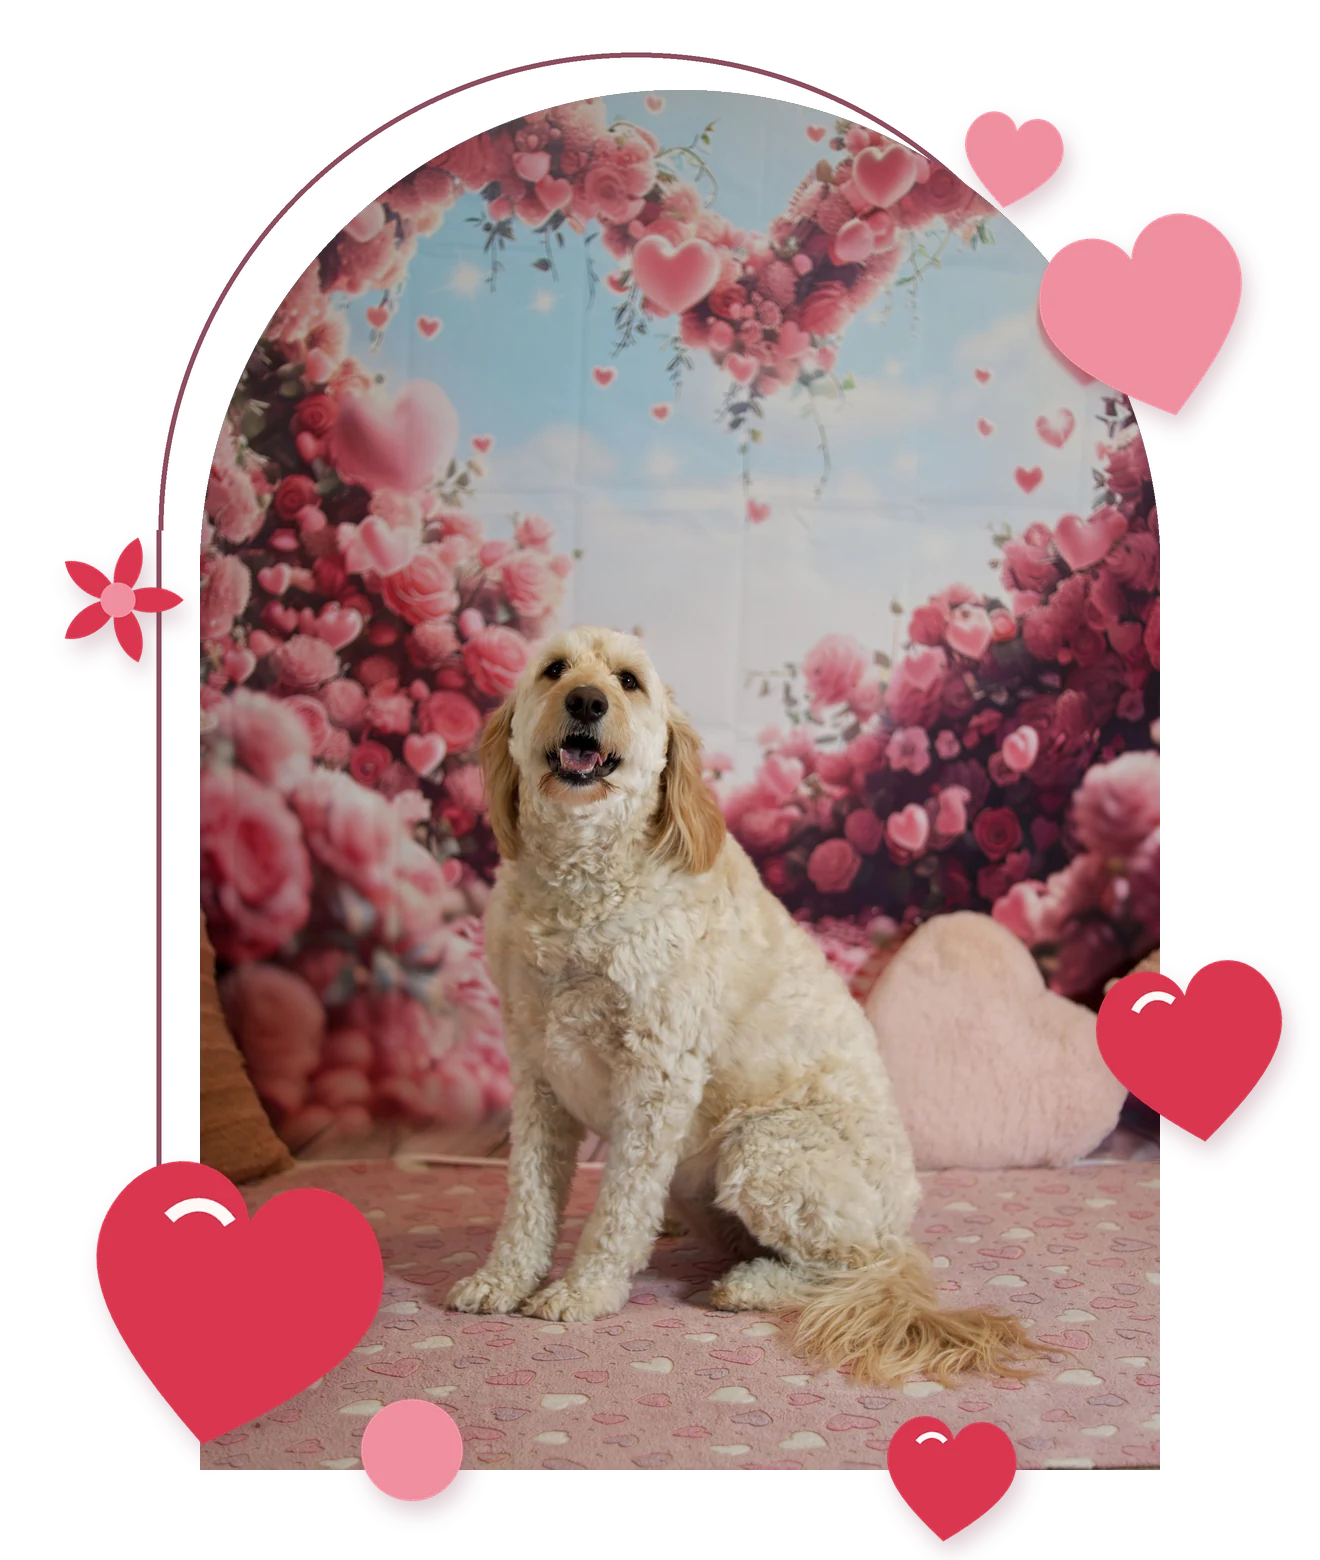
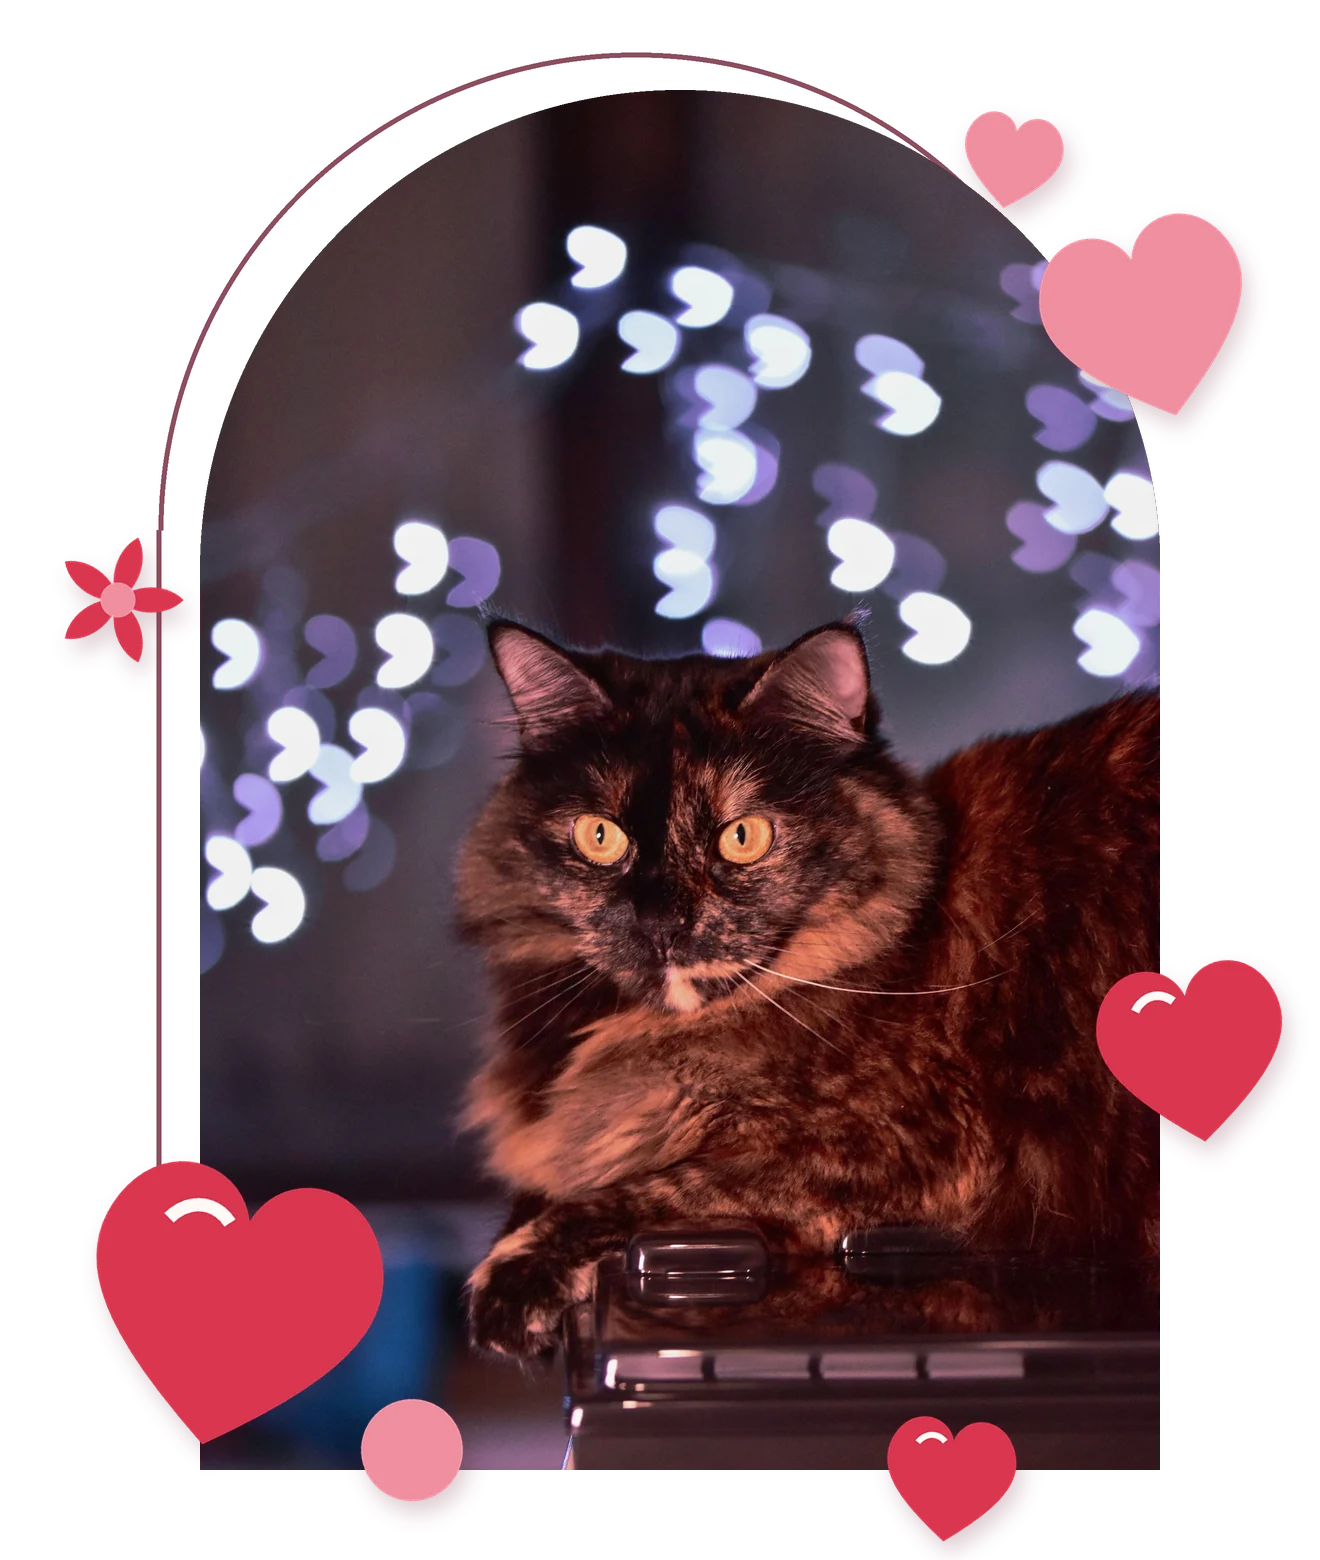
Retarget seasonal photography to cats and small dogs
Claude-Session: https://claude.ai/code/session_01G1JiC9PnNKgRgmbhWn8Trp

diff --git a/scripts/skin_palettes.py b/scripts/skin_palettes.py
@@ -8,35 +8,35 @@ SKINS = {
  'base':        dict(hero='#F7D9CF', band='#DCE5CF', dark='#2B3524', text='#2B3524', btn='#2B3524', btn_label='#FFFDF8', A='#F2AE3D', A2='#C4673F', G='#7E9A68', L='#FFFDF8',
                      props=['sprig', 'heart', 'dot', 'sprig', 'heart_small', 'ring'], photo='base/base-1', feature='base/base-2'),
  'fall-2026':   dict(hero='#F7CBA6', band='#F3E3BC', dark='#4A2A1C', text='#3A2418', btn='#4A2A1C', btn_label='#FFF8EF', A='#E8833A', A2='#C9502E', G='#8A8B3A', L='#FFF8EF',
-                     props=['maple', 'leaf', 'acorn', 'maple', 'leaf', 'acorn'], photo='fall/fall-1', feature='fall/fall-2'),
+                     props=['maple', 'leaf', 'acorn', 'maple', 'leaf', 'acorn'], photo='fall/fall-1', feature='fall/fall-4'),
  'halloween-2026': dict(hero='#F7B46A', band='#E6DCF0', dark='#2A1F33', text='#2A1F33', btn='#2A1F33', btn_label='#FFF8EF', A='#F28C28', A2='#E06A1B', G='#5E7A3A', L='#FFF8EF',
                      props=['pumpkin', 'bat', 'moon', 'bat', 'star_small', 'pumpkin'], photo='halloween/halloween-1', feature='halloween/halloween-3'),
  'national-cat-day-2026': dict(hero='#F1D4DF', band='#F6E7C8', dark='#4B2238', text='#3A1C2C', btn='#4B2238', btn_label='#FFF8F4', A='#E98AA8', A2='#F2AE3D', G='#7E9A68', L='#FFF8F4',
                      props=['yarn', 'paw', 'heart_small', 'paw', 'dot', 'yarn'], photo='catday/catday-3', feature='catday/catday-2'),
  'thanksgiving-2026': dict(hero='#EBC9A0', band='#DDE3C8', dark='#3D2B1F', text='#3D2B1F', btn='#6B3A22', btn_label='#FFF8EF', A='#D98A2B', A2='#B5512C', G='#6F7F3E', L='#FFF8EF',
-                     props=['pumpkin', 'maple', 'acorn', 'leaf', 'acorn', 'maple'], photo='thanksgiving/thanksgiving-1', feature='thanksgiving/thanksgiving-4'),
+                     props=['pumpkin', 'maple', 'acorn', 'leaf', 'acorn', 'maple'], photo='thanksgiving/thanksgiving-4', feature='thanksgiving/thanksgiving-3'),
  'bfcm-2026':   dict(hero='#F4C7B1', band='#F9E7C9', dark='#1F3A34', text='#2A2420', btn='#1F3A34', btn_label='#FFF8EF', A='#F2AE3D', A2='#1F3A34', G='#5E8A6E', L='#FFF8EF',
                      props=['gift', 'star', 'sparkle', 'gift', 'star_small', 'sparkle'], photo='bfcm/bfcm-1', feature='bfcm/bfcm-3'),
  'holidays-2026': dict(hero='#F4D3CB', band='#D6E6DA', dark='#1E4636', text='#1E2E26', btn='#1E4636', btn_label='#FFFBF5', A='#E9B44C', A2='#C8323A', G='#2F6B4F', L='#FFFBF5',
-                     props=['bauble', 'fir', 'star', 'fir', 'bauble', 'sparkle'], photo='holidays/holidays-1', feature='holidays/holidays-2'),
+                     props=['bauble', 'fir', 'star', 'fir', 'bauble', 'sparkle'], photo='holidays/holidays-2', feature='holidays/holidays-4'),
  'winter-2026': dict(hero='#D7E6F2', band='#EEF0F4', dark='#1F3247', text='#1F3247', btn='#1F3247', btn_label='#FFFFFF', A='#8DB4D6', A2='#FFFFFF', G='#4E7A8A', L='#FFFFFF',
                      props=['snowflake', 'dot', 'snowflake', 'sparkle', 'snowflake', 'dot'], photo='winter/winter-1', feature='winter/winter-2'),
  'new-year-2027': dict(hero='#F1E3C2', band='#E3E6F2', dark='#1E2547', text='#1E2547', btn='#1E2547', btn_label='#FFFDF8', A='#D4A637', A2='#E5566F', G='#1E2547', L='#FFFDF8',
-                     props=['burst', 'confetti', 'sparkle', 'confetti', 'star', 'burst'], photo='newyear/newyear-1', feature='newyear/newyear-2'),
+                     props=['burst', 'confetti', 'sparkle', 'confetti', 'star', 'burst'], photo='newyear/newyear-5', feature='newyear/newyear-2'),
  'valentines-2027': dict(hero='#F8C9D0', band='#FBE6E4', dark='#6B1F33', text='#4A1A27', btn='#6B1F33', btn_label='#FFF8F6', A='#F08FA0', A2='#D9364F', G='#7E9A68', L='#FFF8F6',
-                     props=['heart', 'heart_small', 'blossom', 'heart', 'dot', 'heart_small'], photo='valentines/valentines-1', feature='valentines/valentines-2'),
+                     props=['heart', 'heart_small', 'blossom', 'heart', 'dot', 'heart_small'], photo='valentines/valentines-4', feature='valentines/valentines-1'),
  'st-patricks-2027': dict(hero='#F6F0D2', band='#D3EBC8', dark='#1F4A2C', text='#1F3A24', btn='#1F4A2C', btn_label='#FFFDF6', A='#E9B44C', A2='#F2AE3D', G='#3E9150', L='#FFFDF6',
                      props=['shamrock', 'coin', 'shamrock', 'sparkle', 'coin', 'shamrock'], photo='stpatricks/stpatricks-1', feature='stpatricks/stpatricks-3'),
  'tailvani-anniversary-2027': dict(hero='#F9D4E2', band='#FCEBC4', dark='#2B3524', text='#2B3524', btn='#2B3524', btn_label='#FFFDF8', A='#F2AE3D', A2='#E5668A', G='#7E9A68', L='#FFFDF8',
                      props=['balloon', 'party_hat', 'confetti', 'balloon', 'sparkle', 'confetti'], photo='anniversary/anniversary-1', feature='anniversary/anniversary-3'),
  'spring-2027': dict(hero='#F9D3DC', band='#E2EED6', dark='#2F4A2E', text='#2F3A2A', btn='#2F4A2E', btn_label='#FFFDF8', A='#F6C744', A2='#EF8FA8', G='#5E9150', L='#FFFDF8',
-                     props=['blossom', 'tulip', 'petal', 'blossom', 'sprig', 'petal'], photo='spring/spring-1', feature='spring/spring-2'),
+                     props=['blossom', 'tulip', 'petal', 'blossom', 'sprig', 'petal'], photo='spring/spring-3', feature='easterb/easter-2'),
  'easter-2027': dict(hero='#E3DDF4', band='#FBF0C9', dark='#3E3A63', text='#2F2B4A', btn='#3E3A63', btn_label='#FFFDF8', A='#A9D8C8', A2='#F2B5CB', G='#6EA383', L='#FFFDF8',
-                     props=['egg', 'tulip', 'blossom', 'egg', 'dot', 'petal'], photo='easter/easter-3', feature='easter/easter-1'),
+                     props=['egg', 'tulip', 'blossom', 'egg', 'dot', 'petal'], photo='easter/easter-3', feature='easterb/easter-5'),
  'fourth-of-july-2027': dict(hero='#DCE6F4', band='#F6E3DE', dark='#1C2B4D', text='#1C2B4D', btn='#1C2B4D', btn_label='#FFFFFF', A='#C8343B', A2='#2F4F8F', G='#1C2B4D', L='#FFFFFF',
-                     props=['star', 'burst', 'bunting', 'star_small', 'burst', 'star'], photo='july4/july4-1', feature='july4/july4-2'),
+                     props=['star', 'burst', 'bunting', 'star_small', 'burst', 'star'], photo='july4b/july4-1', feature='july4b/july4-3'),
  'summer-2027': dict(hero='#FFE0A3', band='#CFEAF0', dark='#0F4C5C', text='#183A42', btn='#0F4C5C', btn_label='#FFFDF8', A='#F07B4A', A2='#F6C744', G='#3E9A7A', L='#FFFDF8',
-                     props=['sun', 'lemon', 'dot', 'lemon', 'sparkle', 'sun'], photo='summer/summer-1', feature='summer/summer-2'),
+                     props=['sun', 'lemon', 'dot', 'lemon', 'sparkle', 'sun'], photo='summer/summer-3', feature='summer/summer-4'),
  'national-dog-day-2027': dict(hero='#FBD7A8', band='#DDE5CF', dark='#2B3524', text='#2B3524', btn='#2B3524', btn_label='#FFFDF8', A='#E07A3F', A2='#C4673F', G='#7E9A68', L='#FFFDF8',
-                     props=['bone', 'paw', 'heart_small', 'bone', 'dot', 'paw'], photo='dogday/dogday-1', feature='dogday/dogday-2'),
+                     props=['bone', 'paw', 'heart_small', 'bone', 'dot', 'paw'], photo='dogdayb/dogday-1', feature='dogdayb/dogday-3'),
 }

diff --git a/scripts/compose_hero.py b/scripts/compose_hero.py
@@ -15,9 +15,12 @@ SS = 2                                        # supersample for smooth edges
 SLOTS = [(232, 1305, 380, -12), (1148, 318, 270, 16), (118, 600, 160, -18), (1192, 1050, 245, 8),
          (412, 1450, 170, 10), (1012, 160, 130, -10), (950, 1478, 170, -6)]
 CENTER = {  # focal point (x, y) for the arch crop, 0..1
- 'base': (0.5, 0.45), 'bfcm-2026': (0.6, 0.6), 'spring-2027': (0.42, 0.45), 'holidays-2026': (0.5, 0.3),
- 'new-year-2027': (0.5, 0.55), 'thanksgiving-2026': (0.5, 0.55), 'fourth-of-july-2027': (0.45, 0.45),
+ 'base': (0.5, 0.45), 'bfcm-2026': (0.6, 0.6), 'spring-2027': (0.5, 0.35), 'holidays-2026': (0.5, 0.5),
+ 'new-year-2027': (0.62, 0.4), 'thanksgiving-2026': (0.5, 0.4), 'fourth-of-july-2027': (0.5, 0.65),
+ 'valentines-2027': (0.5, 0.55), 'summer-2027': (0.5, 0.45), 'national-dog-day-2027': (0.5, 0.4),
 }
+
+ZOOM = {'fourth-of-july-2027': 0.58}  # crop to this fraction around the focal point before fitting
 
 def hexrgb(h, a=255):
     h = h.lstrip('#'); return tuple(int(h[i:i+2], 16) for i in (0, 2, 4)) + (a,)
@@ -44,6 +47,11 @@ def compose(skin):
     canvas.alpha_composite(ol, (AX + OFF[0], AY + OFF[1]))
     # 2. photo in the arch
     photo = Image.open(f'/home/claude/craft/artwork/graded/{skin}-photo.jpg').convert('RGB')
+    if skin in ZOOM:
+        z = ZOOM[skin]; fx, fy = CENTER.get(skin, (0.5, 0.42)); W0, H0 = photo.size
+        w, h = int(W0 * z), int(H0 * z)
+        x0 = min(max(int(fx * W0 - w / 2), 0), W0 - w); y0 = min(max(int(fy * H0 - h / 2), 0), H0 - h)
+        photo = photo.crop((x0, y0, x0 + w, y0 + h))
     photo = ImageOps.fit(photo, (AW, AH), Image.LANCZOS, centering=CENTER.get(skin, (0.5, 0.42)))
     m = arch_mask(AW, AH)
     canvas.paste(photo, (AX, AY), m)

diff --git a/credits/easterb.md b/credits/easterb.md
@@ -1,0 +1,9 @@
+# easterb — photo credits
+
+filename | photographer | source page | license
+
+easter-1-yorkie-easter-eggs-grass.jpg | Adam B | https://unsplash.com/photos/brown-and-black-yorkshire-terrier-puppy-on-green-grass-field-during-daytime-DmKuKxehJZY | Unsplash License
+easter-2-ginger-kitten-spring-flowers.jpg | Nataliya Melnychuk | https://unsplash.com/photos/a-kitten-sitting-on-a-bed-next-to-a-vase-of-flowers-Czfwp9HJM0E | Unsplash License
+easter-3-sheltie-puppy-pink-tulips.jpg | Tatiana Rudneva | https://unsplash.com/photos/a-fluffy-puppy-sitting-among-vibrant-pink-tulips-5X8TAspl2zQ | Unsplash License
+easter-4-poodle-mix-pink-azaleas.jpg | DOYEOP KOO | https://unsplash.com/photos/a-small-dog-sitting-in-green-grass-with-pink-flowers-lu_V6vUmHbo | Unsplash License
+easter-5-shihtzu-cherry-blossoms.jpg | Sankhadeep Barman | https://unsplash.com/photos/white-yorkshire-terrier-dog-under-white-flowered-bush-Yy_fp2GzPco | Unsplash License

diff --git a/credits/dogdayb.md b/credits/dogdayb.md
@@ -1,0 +1,8 @@
+# dogdayb — photo credits
+
+filename | photographer | source page | license
+
+dogday-1-shihtzu-mix-green-bandana-studio.jpg | Karsten Winegeart | https://unsplash.com/photos/a-small-dog-wearing-a-green-bandana-_hoAqzp39tk | Unsplash License
+dogday-2-frenchie-laughing-green-studio.jpg | Karsten Winegeart | https://unsplash.com/photos/a-brown-and-white-dog-standing-on-a-green-background-6wpn-JioVdg | Unsplash License
+dogday-3-chihuahua-trotting-grass.jpg | Boude (Unsplash: @first2die) | https://unsplash.com/photos/chihuahua-walking-in-green-grass-CcghiFKXbTM | Unsplash License
+dogday-4-shihtzu-puppy-running-grass.jpg | Joe Caione | https://unsplash.com/photos/shallow-focus-photography-of-white-shih-tzu-puppy-running-on-the-grass-qO-PIF84Vxg | Unsplash License

diff --git a/credits/july4b.md b/credits/july4b.md
@@ -1,0 +1,8 @@
+# july4b — photo credits
+
+filename | photographer | source page | license
+
+july4-1-frenchie-rwb-hoodie-stripe-wall.jpg | Karsten Winegeart | https://unsplash.com/photos/brown-short-coated-dog-wearing-blue-and-red-shirt-hyTCfue7uI4 | Unsplash License
+july4-2-frenchie-tongue-stripe-wall.jpg | Karsten Winegeart | https://unsplash.com/photos/brown-and-white-short-coated-dog-wearing-red-and-blue-shirt-hir6uNh8Jpc | Unsplash License
+july4-3-persian-cat-star-dress-flags.jpg | Reba Spike | https://unsplash.com/photos/a-cat-in-a-blue-shirt-in-front-of-a-flag-64RHvnCg96w | Unsplash License
+july4-4-persian-cat-rwb-booth-flags.jpg | Reba Spike | https://unsplash.com/photos/a-dog-standing-between-several-flags-cltZa7djaig | Unsplash License
